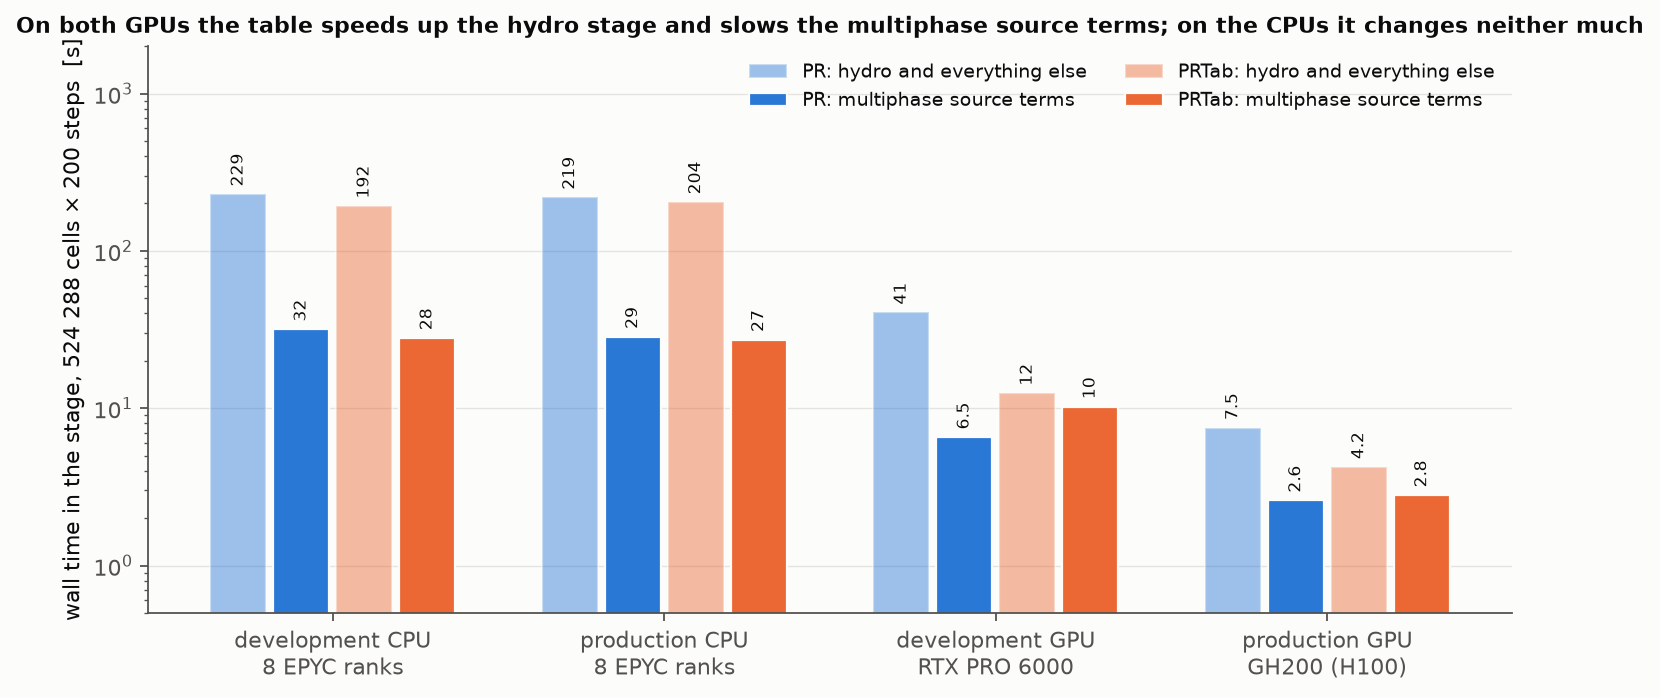
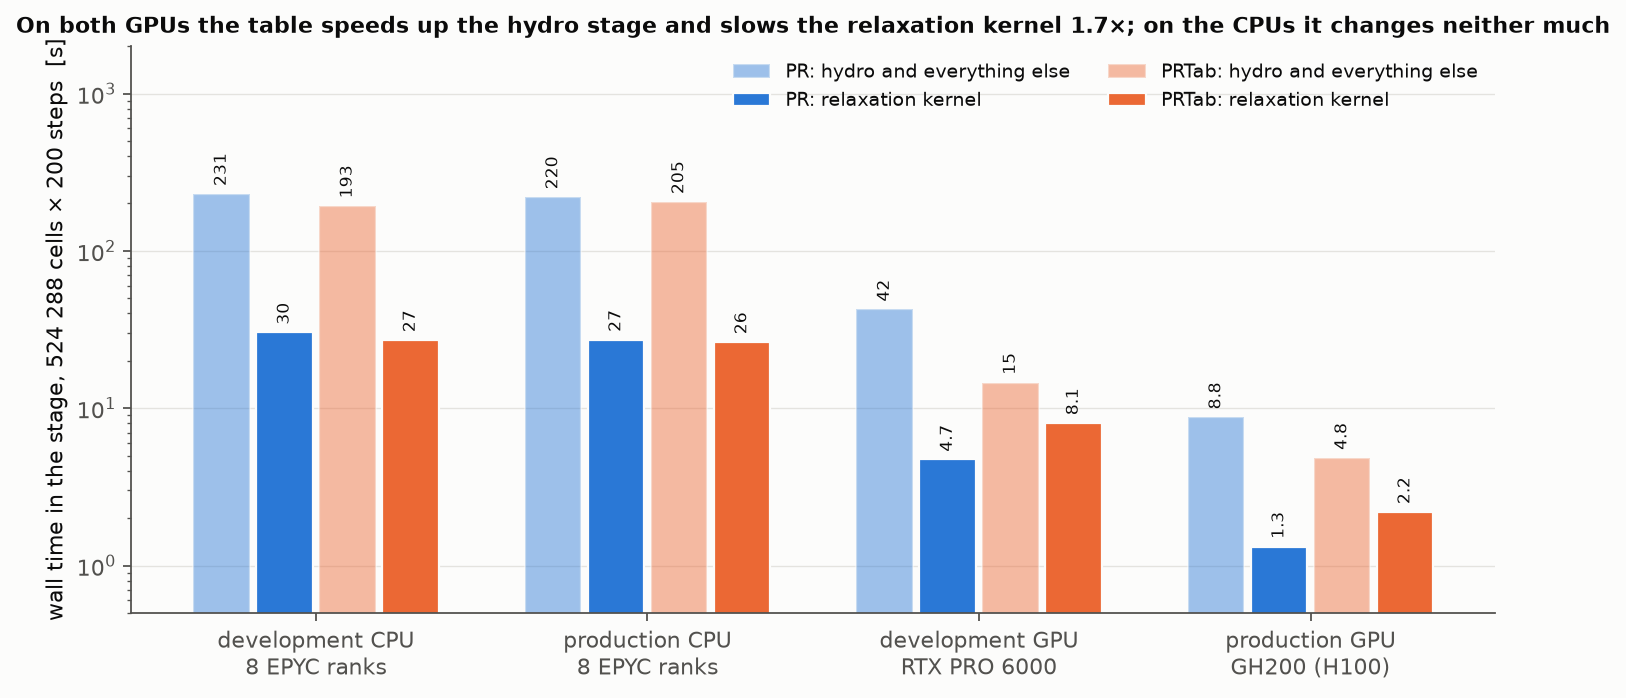
Figure 6 plots the relaxation kernel alone (mass transfer left in the remainder), so the 1.7x on both GPUs is what the bars show

diff --git a/Exec/EOS_Surrogate/make_figures.py b/Exec/EOS_Surrogate/make_figures.py
@@ -173,13 +173,14 @@ def fig5_cost_matrix():
     save(fig, 'fig5_cost_matrix.png')
 
 # =============================================================================
-def parse_profile(log):
-    """Run time w/o init and the exclusive Avg time of the reaction-operator kernels."""
+def parse_profile(log, kernels=('PS::ps_apply_relaxation()',)):
+    """Run time w/o init and the exclusive Avg time of the named kernels (default: the relaxation kernel alone;
+    the mass-transfer kernel is left in the remainder, since the register-pressure argument is about the relaxation Newton)."""
     txt = open(log).read()
     tot = float(re.findall(r'Run time w/o init = ([\d.eE+-]+)', txt)[-1])
     sec = txt.split('Excl. Min')[1] if 'Excl. Min' in txt else ''
     react = 0.0
-    for name in ('PS::ps_apply_relaxation()', 'PS::ps_source_masstransfer()'):
+    for name in kernels:
         m = re.search(re.escape(name) + r'\s+\d+\s+([\d.eE+-]+)\s+([\d.eE+-]+)\s+([\d.eE+-]+)', sec)
         if m: react += float(m.group(2))     # Excl. Avg across processes
     return tot, react
@@ -195,8 +196,8 @@ def fig6_stage_split():
             ('production GPU\nGH200 (H100)', 'PRTab'): os.path.join(PB, 'runs/bench/olivia_gpu/Exec/CO2_PipeBreak/runs/bench/L0big_200/PRTab_gpu/run.log')}
     plats = ['development CPU\n8 EPYC ranks', 'production CPU\n8 EPYC ranks', 'development GPU\nRTX PRO 6000', 'production GPU\nGH200 (H100)']
     fig, ax = plt.subplots(figsize=(11, 4.6)); w = 0.19; x = np.arange(len(plats))
-    series = [('PR', 'rest', 'PR: hydro and everything else', 0.45), ('PR', 'react', 'PR: multiphase source terms', 1.0),
-              ('PRTab', 'rest', 'PRTab: hydro and everything else', 0.45), ('PRTab', 'react', 'PRTab: multiphase source terms', 1.0)]
+    series = [('PR', 'rest', 'PR: hydro and everything else', 0.45), ('PR', 'react', 'PR: relaxation kernel', 1.0),
+              ('PRTab', 'rest', 'PRTab: hydro and everything else', 0.45), ('PRTab', 'react', 'PRTab: relaxation kernel', 1.0)]
     for i, (b, part, label, alpha) in enumerate(series):
         xs = x + (i - 1.5) * w; vals = []
         for p in plats:
@@ -206,7 +207,7 @@ def fig6_stage_split():
             ax.text(xi, v * 1.12, f'{v:.0f}' if v >= 10 else f'{v:.1f}', ha='center', va='bottom', fontsize=7.5, color=INK, rotation=90)
     ax.set_yscale('log'); ax.set_ylim(0.5, 2000); ax.set_xticks(x); ax.set_xticklabels(plats)
     ax.set_ylabel('wall time in the stage, 524 288 cells × 200 steps  [s]'); ax.legend(loc='upper right', fontsize=8.5, ncol=2)
-    ax.set_title('On both GPUs the table speeds up the hydro stage and slows the multiphase source terms; on the CPUs it changes neither much', fontsize=10)
+    ax.set_title('On both GPUs the table speeds up the hydro stage and slows the relaxation kernel 1.7×; on the CPUs it changes neither much', fontsize=10)
     save(fig, 'fig6_stage_split.png')
 
 def fig8_flattened():
